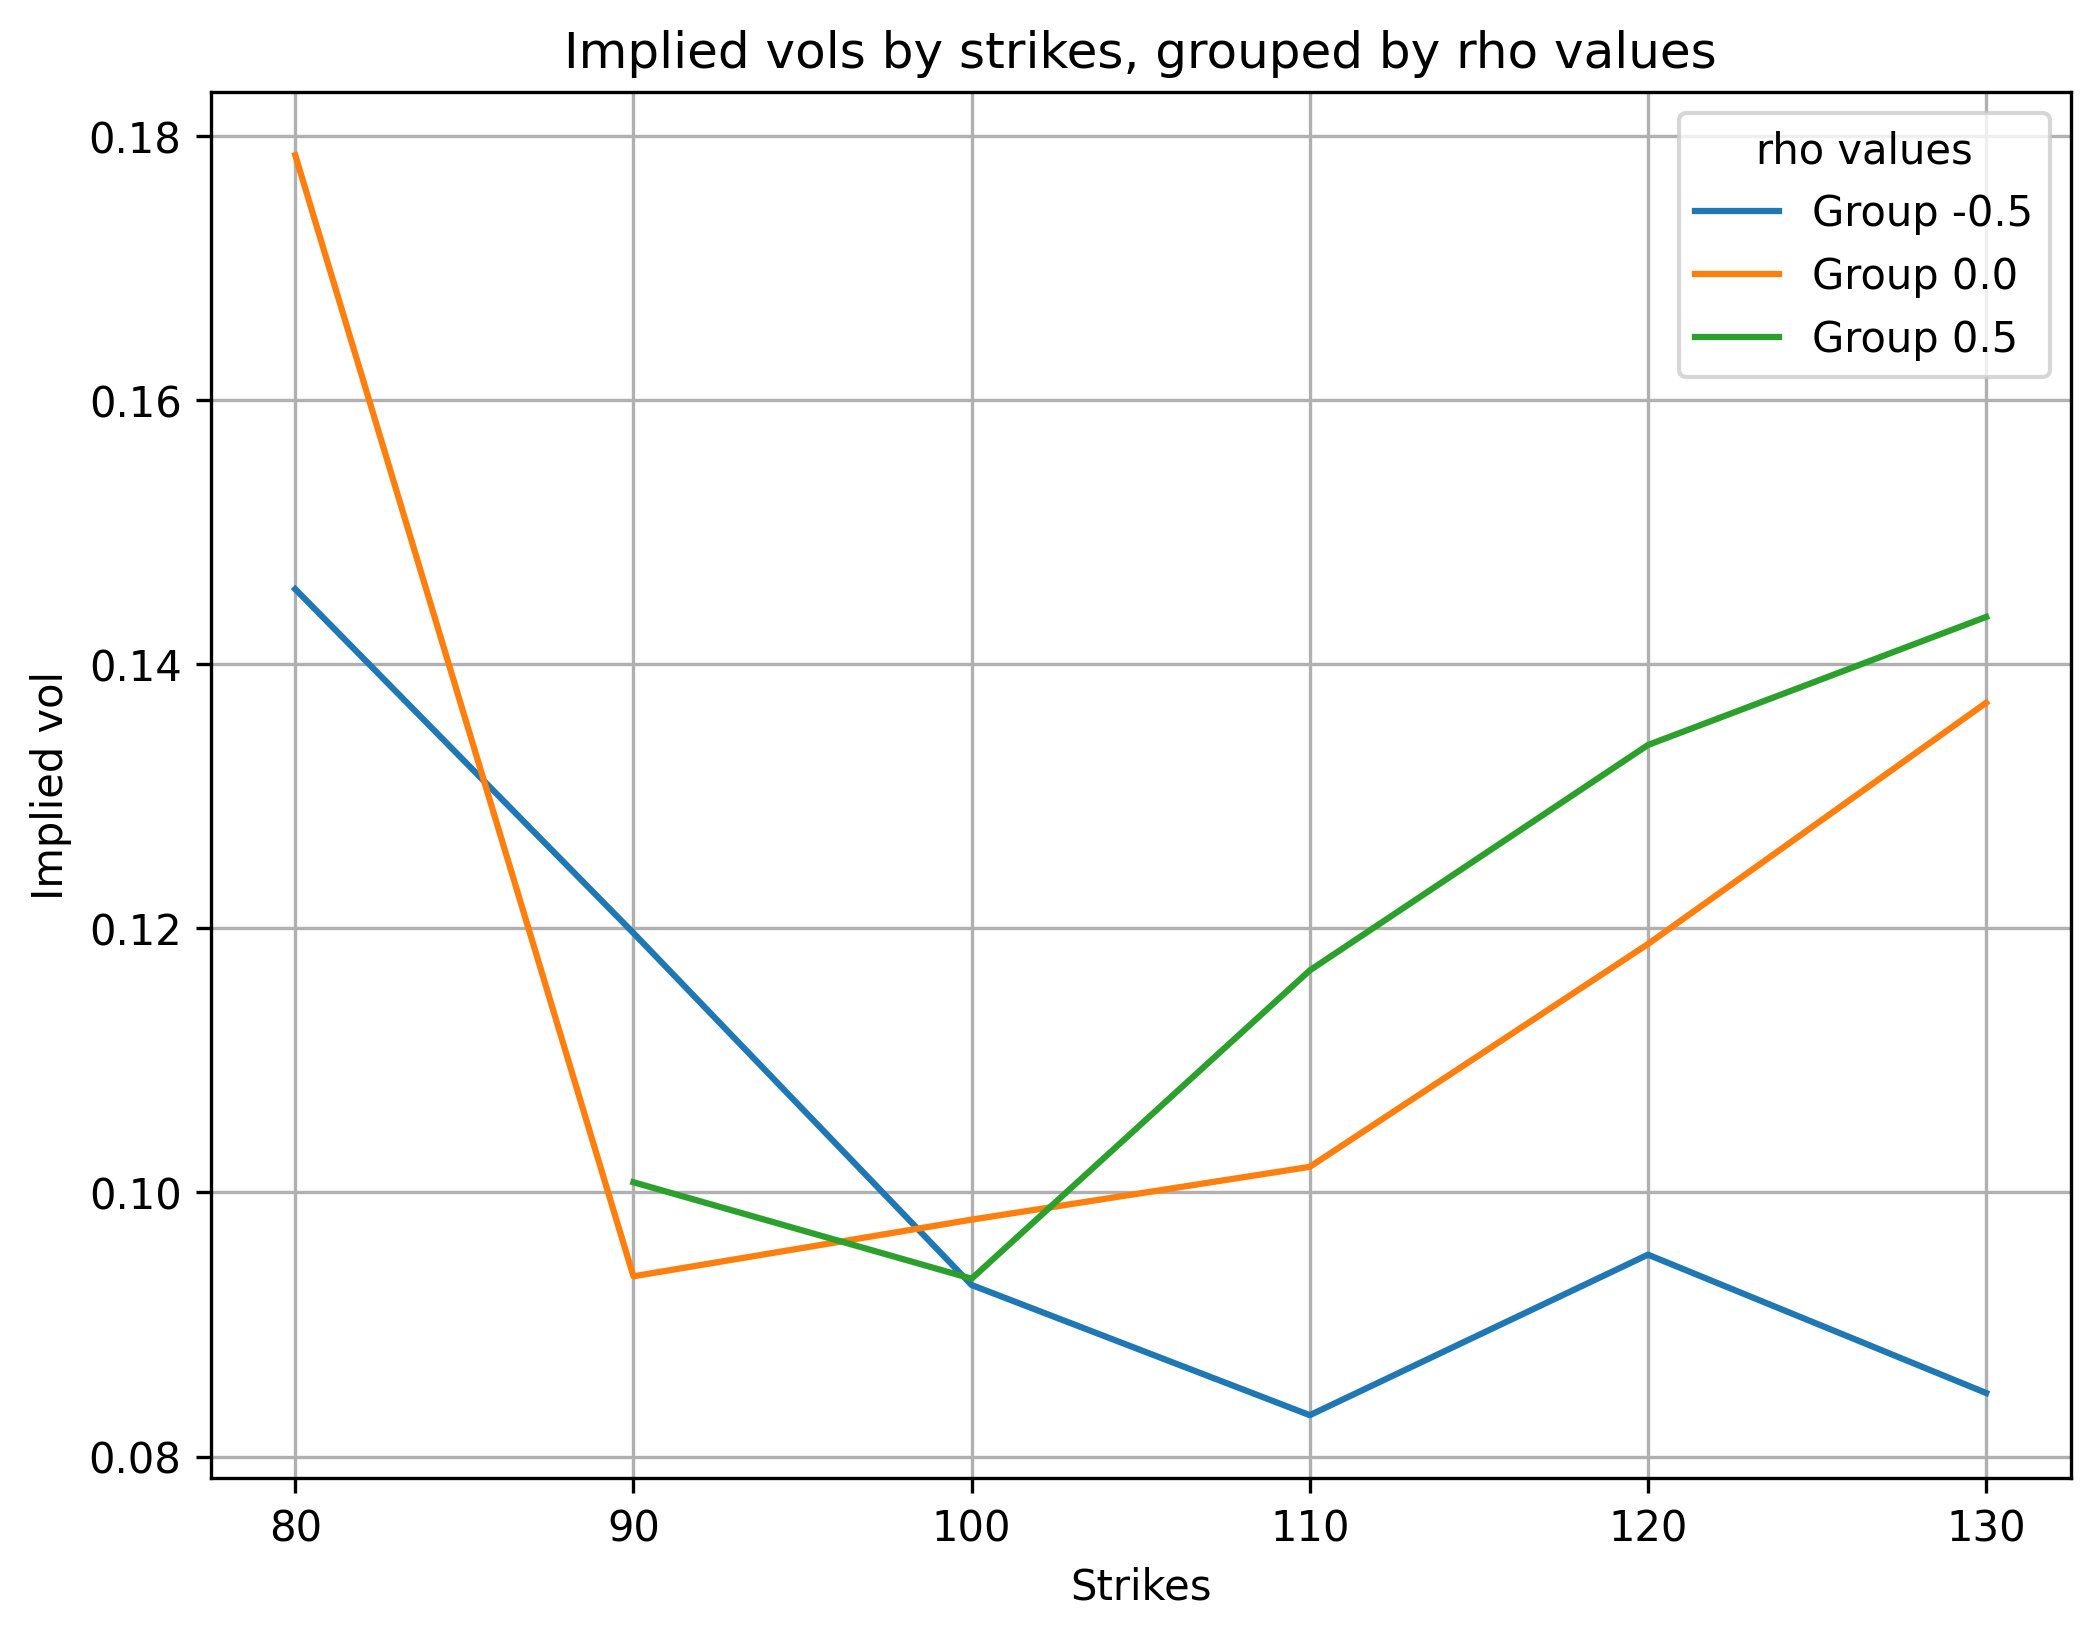
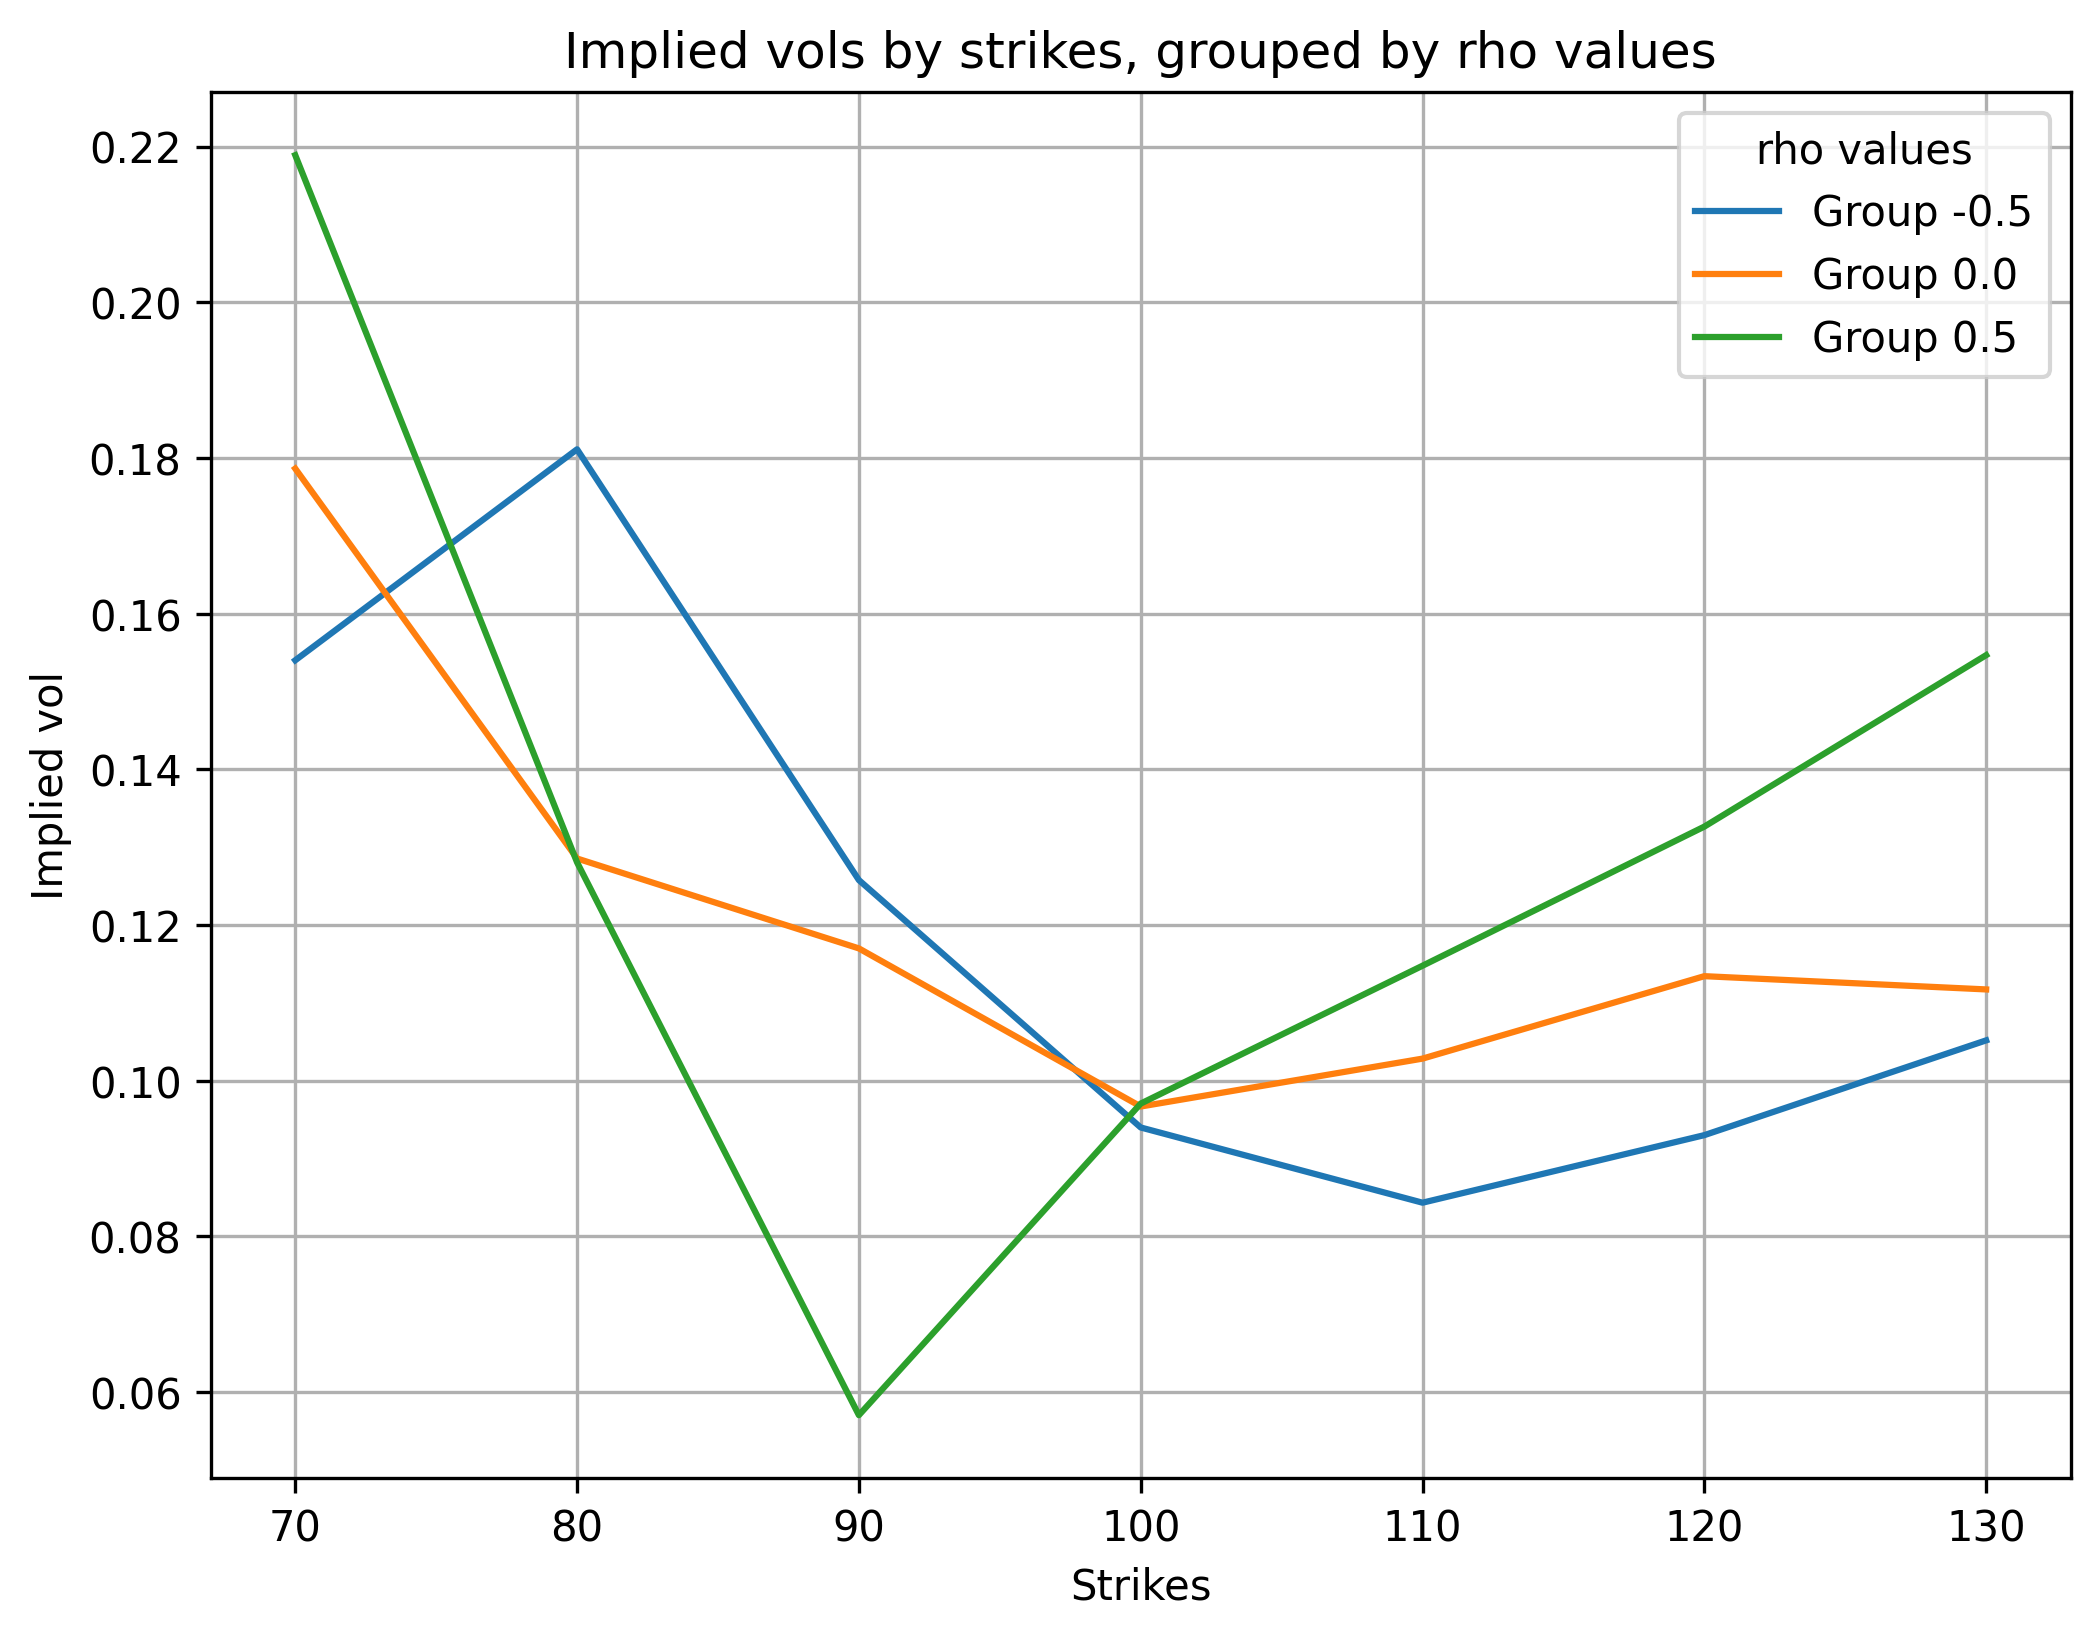
Derivatives HA2 improvements

diff --git a/derivatives_ha2/main_script.py b/derivatives_ha2/main_script.py
@@ -1,88 +1,90 @@
 import sys
+from types import NoneType
+
 sys.path.append("derivatives_ha2")
 from MC_sim import *
 from BS_implied_vol_search import *
+from plot_funs import *
 import pandas as pd
-import matplotlib
-import matplotlib.pyplot as plt
 
-num_sims = 10000
-
-T = 0.5
-per_num = 150
-S_0 = 100
-u_0 = 0.01
-kappa = 2
-theta = 0.01
-lambda_bar = 0
-r = 0
+params_dict = {"num_sims": 10000,
+               "T": 0.5,
+               "per_num": 150,
+               "S_0": 100,
+               "u_0": 0.01,
+               "kappa": 2,
+               "theta": 0.01,
+               "lambda_bar": 0,
+               "r": 0
+              }
 
 sigmas_list = [0.225, 0.1, 0.2]
 rhos_list = [-0.5, 0, 0.5]
 strikes_list = [70, 80, 90, 100, 110, 120, 130]
 
-#sigma, rho, strike
-def get_MC_estimate_spec(sigma, rho, strike):
-    return get_MC_estimate(sigma = sigma,
-                           rho = rho,
-                           strike = strike,
-                           T = T,
-                           num_sims = num_sims,
-                           per_num = per_num,
-                           S_0 = S_0,
-                           u_0 = u_0,
-                           kappa = kappa,
-                           theta = theta,
-                           lambda_bar = lambda_bar,
-                           r = r
-            )
+def find_vol_spec(params_dict):
+    def search_vol():
+        price = get_MC_estimate(params_dict)
+        return find_vol(price, params_dict['S_0'], params_dict['strike'], params_dict['T'], params_dict['r'])
+
+    while True:
+        try:
+            vol = search_vol()
+            if vol is None:
+                raise ValueError("Implied volatility is None!")
+            else:
+                break
+        except:
+            print("Implied volatility is None! Retrying...")
+    return vol
+
 ##############################################################################
 #part 1, different rhos, sigma = 0.225
-sigma = sigmas_list[0]
+params_dict['sigma'] = sigmas_list[0]
 
 res_list = list()
 for rho in rhos_list:
     print(f"starting sims for rho {rho}")
     for strike in strikes_list:
-        price = get_MC_estimate_spec(sigma = sigma, rho = rho, strike = strike)
-        res_list.append((strike, find_vol(price, S_0, strike, T, r), rho))
+        params_dict['rho'] = rho
+        params_dict['strike'] = strike
 
-df = pd.DataFrame(res_list)
+        implied_vol = find_vol_spec(params_dict)
 
-plt.figure(figsize=(8,6))
-for group in df[2].unique():
-    subset = df[df[2] == group]
-    plt.plot(subset[0], subset[1], label=f'Group {group}')
+        res_list.append((strike, implied_vol, rho))
 
-plt.xlabel('Strikes')
-plt.ylabel('Implied vol')
-plt.title('Implied vols by strikes, grouped by rho values')
-plt.legend(title='rho values')
-plt.grid(True)
-plt.savefig('derivatives_ha2//1st_plot.png', dpi=300, bbox_inches='tight')
+plot_and_save(df = pd.DataFrame(res_list),
+              group_column = 2,
+              x_column = 0,
+              y_column = 1,
+              x_label = "Strikes",
+              y_label = "Implied vol",
+              title = 'Implied vols by strikes, grouped by rho values',
+              legend_text = "rho values",
+              file_name = "1st_plot.png"
+)
 
 
 ##############################################################################
 #part 2, different sigmas, rho = 0
-rho = 0
-res_list = list()
-res_list = list()
+params_dict['rho'] = 0
+res_list2 = list()
 for sigma in sigmas_list[1:]:
     print(f"starting sims for sigma {sigma}")
     for strike in strikes_list:
-        price = get_MC_estimate_spec(sigma = sigma, rho = rho, strike = strike)
-        res_list.append((strike, find_vol(price, S_0, strike, T, r), sigma))
+        params_dict['sigma'] = sigma
+        params_dict['strike'] = strike
+        implied_vol = find_vol_spec(params_dict)
 
-df = pd.DataFrame(res_list)
+        res_list2.append((strike, implied_vol, sigma))
 
-plt.figure(figsize=(8,6))
-for group in df[2].unique():
-    subset = df[df[2] == group]
-    plt.plot(subset[0], subset[1], label=f'Group {group}')
-
-plt.xlabel('Strikes')
-plt.ylabel('implied vol')
-plt.title('Implied vols by strikes, grouped by sigmas')
-plt.legend(title='sigma values')
-plt.grid(True)
-plt.savefig('derivatives_ha2//2nd_plot.png', dpi=300, bbox_inches='tight')
+plot_and_save(df = pd.DataFrame(res_list2),
+              group_column = 2,
+              x_column = 0,
+              y_column = 1,
+              x_label = "Strikes",
+              y_label = "Implied vol",
+              title = 'Implied vols by strikes, grouped by sigmas',
+              legend_text = "sigma values",
+              file_name = "2nd_plot.png"
+)

diff --git a/derivatives_ha2/movement_sim_funs.py b/derivatives_ha2/movement_sim_funs.py
@@ -17,29 +17,19 @@ def get_vol_increment(u_t, dXt, dt, kappa, theta, sigma, lambda_bar):
 def get_stock_increment(dXt, S_t, u_t, dt, r):
     return r * S_t * dt + sqrt(u_t) * S_t * dXt
 
-def get_stock_price_path(T,
-                         per_num,
-                         rho,
-                         S_0,
-                         u_0,
-                         kappa,
-                         theta,
-                         lambda_bar,
-                         sigma,
-                         r
-    ):
-    dt = T / per_num
-    price_path = [S_0] * per_num
-    vol_path = [u_0] * per_num
+def get_stock_price_path(params_dict):
+    dt = params_dict['T']  / params_dict['per_num']
+    price_path = [params_dict['S_0']] * params_dict['per_num']
+    vol_path = [params_dict['u_0']] * params_dict['per_num']
 
     def get_vol_increment_spec (u_t, dXt):
         return get_vol_increment(u_t = u_t,
                                  dXt = dXt,
                                  dt = dt,
-                                 kappa = kappa,
-                                 theta = theta,
-                                 sigma = sigma,
-                                 lambda_bar = lambda_bar
+                                 kappa = params_dict['kappa'],
+                                 theta = params_dict['theta'],
+                                 sigma = params_dict['sigma'],
+                                 lambda_bar = params_dict['lambda_bar']
                 )
 
     def get_stock_increment_spec (S_t, u_t, dXt):
@@ -47,13 +37,17 @@ def get_stock_price_path(T,
                                    u_t = u_t,
                                    dXt = dXt,
                                    dt = dt,
-                                   r = r
+                                   r = params_dict['r']
                 )
 
-    dXt_sims = rand_norm([0, 0], [sqrt(dt), sqrt(dt)], rho, per_num)
-    for i in range(1, per_num):
+    dXt_sims = rand_norm([0, 0],
+                         [sqrt(dt), sqrt(dt)],
+                         params_dict['rho'],
+                         params_dict['per_num']
+               )
+
+    for i in range(1, params_dict['per_num']):
         vol_path[i] = max(vol_path[i - 1] + get_vol_increment_spec(u_t = vol_path[i - 1], dXt = dXt_sims[i][0]), 0)
         price_path[i] = price_path[i - 1] + get_stock_increment_spec(dXt = dXt_sims[i][1], S_t = price_path[i - 1], u_t = vol_path[i - 1])
 
     return price_path
-

diff --git a/derivatives_ha2/MC_sim.py b/derivatives_ha2/MC_sim.py
@@ -1,32 +1,27 @@
 import sys
 sys.path.append("derivatives_ha2")
 from movement_sim_funs import *
+import numbers
+import warnings
 
-def get_MC_estimate(sigma,
-                    rho,
-                    strike,
-                    T,
-                    num_sims,
-                    per_num,
-                    S_0,
-                    u_0,
-                    kappa,
-                    theta,
-                    lambda_bar,
-                    r
-    ):
+def get_MC_estimate(params_dict):
 
-    def get_price_fin():
-        return get_stock_price_path(T=T, per_num=per_num, rho=rho,
-                                    S_0=S_0, u_0=u_0, kappa=kappa,
-                                    theta=theta, lambda_bar=lambda_bar,
-                                    sigma=sigma, r=r
-               )[per_num - 1]
+    #checking params
+    all_params = {"num_sims", "T", "per_num", "S_0", "u_0", "kappa", "theta", "lambda_bar", "r", "sigma", "rho", "strike"}
+    for param in all_params:
+        if param not in params_dict:
+            raise KeyError(f"param {param} is not specified")
+        if not(isinstance(params_dict[param], numbers.Number)):
+            raise TypeError(f"param {param} is supposed to be a number")
+
+    if len(params_dict) != len(all_params):
+        warnings.warn(f"params {params_dict.keys - all_params} are not known and will not be used", UserWarning)
 
     def get_payoff():
-        return max(get_price_fin() - strike, 0)
+        stock_fin_price = get_stock_price_path(params_dict)[params_dict['per_num'] - 1]
+        return max(stock_fin_price - params_dict['strike'], 0)
 
-    expected_payoff = sum(get_payoff() for _ in range(num_sims))/num_sims
+    expected_payoff = sum(get_payoff() for _ in range(params_dict['num_sims']))/params_dict['num_sims']
 
-    print(f"sims for strike {strike} are finished")
-    return exp(-r*T) * expected_payoff
+    print(f"sims for strike {params_dict['strike']} are finished")
+    return exp(-params_dict['r']*params_dict['T']) * expected_payoff

diff --git a/derivatives_ha2/plot_funs.py b/derivatives_ha2/plot_funs.py
@@ -1,0 +1,24 @@
+import matplotlib
+import matplotlib.pyplot as plt
+
+def plot_and_save(df,
+                  group_column,
+                  x_column,
+                  y_column,
+                  x_label,
+                  y_label,
+                  title,
+                  legend_text,
+                  file_name
+    ):
+    plt.figure(figsize=(8, 6))
+    for group in df[group_column].unique():
+        subset = df[df[group_column] == group]
+        plt.plot(subset[x_column], subset[y_column], label=f'Group {group}')
+
+    plt.xlabel(x_label)
+    plt.ylabel(y_label)
+    plt.title(title)
+    plt.legend(title=legend_text)
+    plt.grid(True)
+    plt.savefig(f'derivatives_ha2//{file_name}', dpi=300, bbox_inches='tight')
